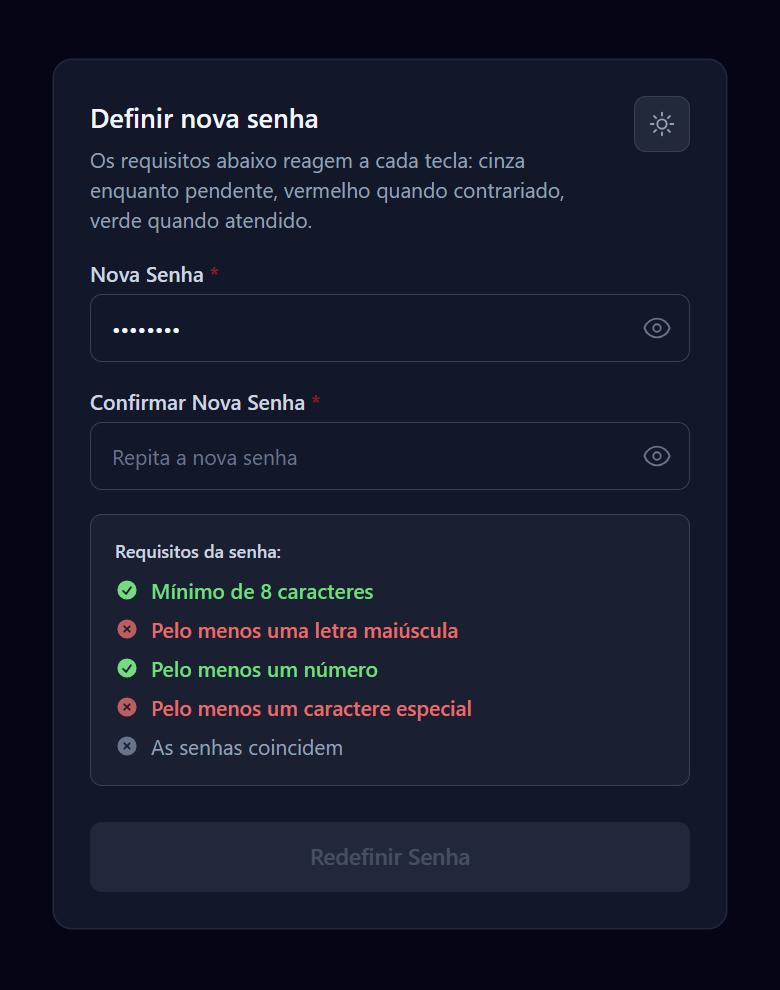
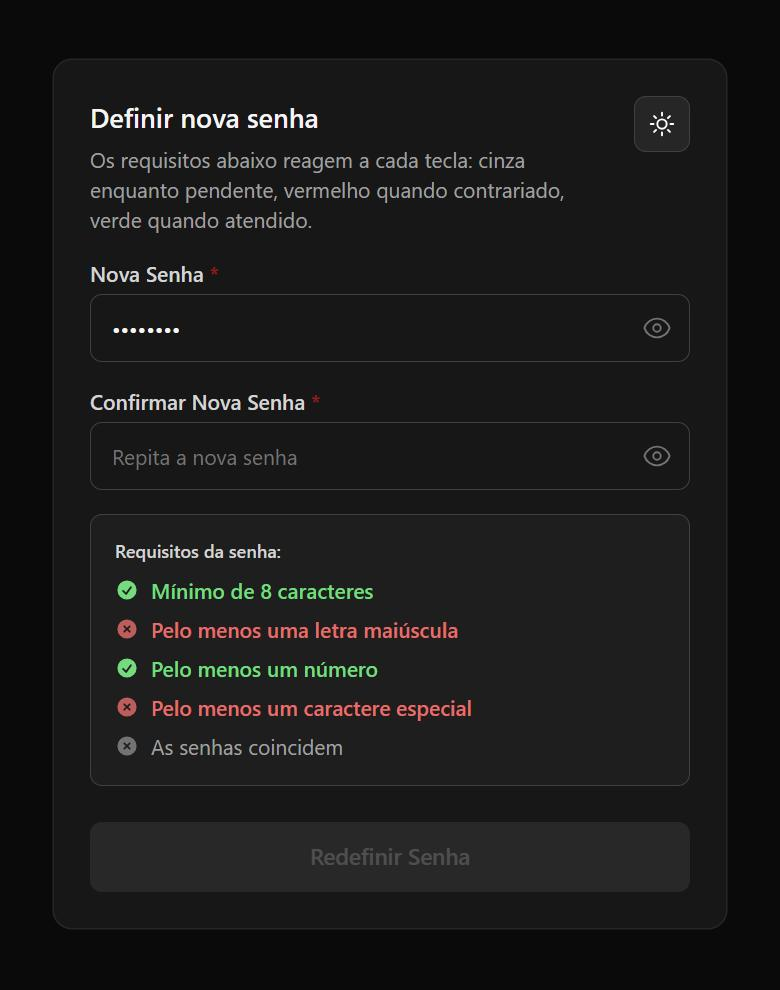
style: sol fixo no botao de tema e paleta escura neutra
- o botao de tema mostra sempre o sol: preto no tema claro, branco no escuro
  (o aria-label continua dizendo para onde o clique leva)
- troca slate por neutral: o slate do Tailwind puxa para o azul, e o escuro
  pedia cinza neutro
- prints do README refeitos nos dois temas

diff --git a/src/App.vue b/src/App.vue
@@ -1,12 +1,12 @@
 <template>
-    <main class="min-h-screen bg-slate-100 px-4 py-10 transition-colors duration-200 dark:bg-slate-950">
+    <main class="min-h-screen bg-neutral-100 px-4 py-10 transition-colors duration-200 dark:bg-neutral-950">
         <div
-            class="mx-auto flex w-full max-w-md flex-col gap-4 rounded-xl bg-white p-6 shadow-sm transition-colors duration-200 dark:bg-slate-900 dark:shadow-none dark:ring-1 dark:ring-slate-800"
+            class="mx-auto flex w-full max-w-md flex-col gap-4 rounded-xl bg-white p-6 shadow-sm transition-colors duration-200 dark:bg-neutral-900 dark:shadow-none dark:ring-1 dark:ring-neutral-800"
         >
             <header class="flex items-start justify-between gap-4">
                 <div class="flex flex-col gap-1">
-                    <h1 class="text-lg font-semibold text-gray-800 dark:text-slate-100">Definir nova senha</h1>
-                    <p class="text-sm text-gray-500 dark:text-slate-400">
+                    <h1 class="text-lg font-semibold text-gray-800 dark:text-neutral-100">Definir nova senha</h1>
+                    <p class="text-sm text-gray-500 dark:text-neutral-400">
                         Os requisitos abaixo reagem a cada tecla: cinza enquanto pendente, vermelho quando
                         contrariado, verde quando atendido.
                     </p>
@@ -15,39 +15,22 @@
                     type="button"
                     :aria-label="escuro ? 'Mudar para tema claro' : 'Mudar para tema escuro'"
                     :title="escuro ? 'Tema claro' : 'Tema escuro'"
-                    class="shrink-0 cursor-pointer rounded-lg border border-gray-200 bg-white p-2 text-gray-500 transition-colors duration-200 hover:text-gray-800 dark:border-slate-700 dark:bg-slate-800 dark:text-slate-400 dark:hover:text-slate-100"
+                    class="shrink-0 cursor-pointer rounded-lg border border-gray-200 bg-white p-2 text-black transition-colors duration-200 hover:bg-gray-100 dark:border-neutral-700 dark:bg-neutral-800 dark:text-white dark:hover:bg-neutral-700"
                     @click="alternar"
                 >
-                    <!-- sol -->
                     <svg
-                        v-if="escuro"
                         xmlns="http://www.w3.org/2000/svg"
                         fill="none"
                         viewBox="0 0 24 24"
                         stroke-width="1.5"
                         stroke="currentColor"
                         class="h-5 w-5"
+                        aria-hidden="true"
                     >
                         <path
                             stroke-linecap="round"
                             stroke-linejoin="round"
                             d="M12 3v2.25m6.364.386l-1.591 1.591M21 12h-2.25m-.386 6.364l-1.591-1.591M12 18.75V21m-4.773-4.227l-1.591 1.591M5.25 12H3m4.227-4.773L5.636 5.636M15.75 12a3.75 3.75 0 11-7.5 0 3.75 3.75 0 017.5 0z"
-                        />
-                    </svg>
-                    <!-- lua -->
-                    <svg
-                        v-else
-                        xmlns="http://www.w3.org/2000/svg"
-                        fill="none"
-                        viewBox="0 0 24 24"
-                        stroke-width="1.5"
-                        stroke="currentColor"
-                        class="h-5 w-5"
-                    >
-                        <path
-                            stroke-linecap="round"
-                            stroke-linejoin="round"
-                            d="M21.752 15.002A9.718 9.718 0 0118 15.75c-5.385 0-9.75-4.365-9.75-9.75 0-1.33.266-2.597.748-3.752A9.753 9.753 0 003 11.25C3 16.635 7.365 21 12.75 21a9.753 9.753 0 009.002-5.998z"
                         />
                     </svg>
                 </button>
@@ -66,7 +49,7 @@
 
             <button
                 type="button"
-                class="mt-2 w-full cursor-pointer rounded-lg border-none bg-slate-900 py-3 text-[15px] font-semibold text-white transition-all duration-300 hover:-translate-y-0.5 hover:shadow-[0_8px_20px_rgba(15,23,42,0.3)] disabled:cursor-not-allowed disabled:bg-gray-400 disabled:opacity-40 disabled:hover:translate-y-0 disabled:hover:shadow-none dark:bg-slate-100 dark:text-slate-900 dark:hover:shadow-[0_8px_20px_rgba(0,0,0,0.5)] dark:disabled:bg-slate-700 dark:disabled:text-slate-400"
+                class="mt-2 w-full cursor-pointer rounded-lg border-none bg-neutral-900 py-3 text-[15px] font-semibold text-white transition-all duration-300 hover:-translate-y-0.5 hover:shadow-[0_8px_20px_rgba(23,23,23,0.3)] disabled:cursor-not-allowed disabled:bg-gray-400 disabled:opacity-40 disabled:hover:translate-y-0 disabled:hover:shadow-none dark:bg-neutral-100 dark:text-neutral-900 dark:hover:shadow-[0_8px_20px_rgba(0,0,0,0.5)] dark:disabled:bg-neutral-700 dark:disabled:text-neutral-400"
                 :disabled="!podeEnviar"
             >
                 Redefinir Senha

diff --git a/src/components/CampoSenha.vue b/src/components/CampoSenha.vue
@@ -1,6 +1,6 @@
 <template>
     <div class="flex flex-col gap-1">
-        <label :for="id" class="text-sm font-semibold text-gray-700 dark:text-slate-300">
+        <label :for="id" class="text-sm font-semibold text-gray-700 dark:text-neutral-300">
             {{ rotulo }}
             <span v-if="obrigatorio" class="text-red-700/80">*</span>
         </label>
@@ -12,14 +12,14 @@
                 :placeholder="placeholder"
                 :required="obrigatorio"
                 autocomplete="new-password"
-                class="w-full rounded-lg border border-gray-200 bg-white px-3.5 py-3 pr-10 font-[inherit] text-sm text-gray-900 transition-all duration-200 placeholder:text-gray-400 focus:border-slate-500 focus:outline-none focus:ring-[3px] focus:ring-slate-500/10 dark:border-slate-700 dark:bg-slate-900 dark:text-slate-100 dark:placeholder:text-slate-500 dark:focus:border-slate-400"
+                class="w-full rounded-lg border border-gray-200 bg-white px-3.5 py-3 pr-10 font-[inherit] text-sm text-gray-900 transition-all duration-200 placeholder:text-gray-400 focus:border-neutral-500 focus:outline-none focus:ring-[3px] focus:ring-neutral-500/10 dark:border-neutral-700 dark:bg-neutral-900 dark:text-neutral-100 dark:placeholder:text-neutral-500 dark:focus:border-neutral-400"
                 @input="$emit('update:modelValue', $event.target.value)"
             />
             <button
                 type="button"
                 tabindex="-1"
                 :aria-label="visivel ? 'Ocultar senha' : 'Mostrar senha'"
-                class="absolute right-3 top-1/2 z-10 flex -translate-y-1/2 cursor-pointer items-center justify-center border-none bg-transparent p-0 text-gray-400 transition-colors duration-200 hover:text-gray-600 dark:text-slate-500 dark:hover:text-slate-300"
+                class="absolute right-3 top-1/2 z-10 flex -translate-y-1/2 cursor-pointer items-center justify-center border-none bg-transparent p-0 text-gray-400 transition-colors duration-200 hover:text-gray-600 dark:text-neutral-500 dark:hover:text-neutral-300"
                 @click="visivel = !visivel"
             >
                 <svg

diff --git a/src/components/ValidadorSenhaVisual.vue b/src/components/ValidadorSenhaVisual.vue
@@ -1,6 +1,6 @@
 <template>
-    <div class="rounded-lg border border-gray-200 bg-gray-50 p-4 dark:border-slate-700 dark:bg-slate-800/50">
-        <p class="mb-2 text-xs font-semibold text-gray-700 dark:text-slate-300">Requisitos da senha:</p>
+    <div class="rounded-lg border border-gray-200 bg-gray-50 p-4 dark:border-neutral-700 dark:bg-neutral-800/50">
+        <p class="mb-2 text-xs font-semibold text-gray-700 dark:text-neutral-300">Requisitos da senha:</p>
         <ul class="space-y-1.5">
             <li
                 v-for="(requisito, index) in requisitos"
@@ -26,7 +26,7 @@
                 <svg
                     v-else
                     class="mr-2 h-4 w-4 shrink-0"
-                    :class="requisito.divergente ? 'text-red-700/70 dark:text-red-400/80' : 'text-gray-400 dark:text-slate-500'"
+                    :class="requisito.divergente ? 'text-red-700/70 dark:text-red-400/80' : 'text-gray-400 dark:text-neutral-500'"
                     viewBox="0 0 20 20"
                     fill="currentColor"
                     aria-hidden="true"
@@ -120,6 +120,6 @@ function estadoDe(requisito) {
 function classeTexto(requisito) {
     if (requisito.cumprido) return 'text-green-700 font-medium dark:text-green-400';
     if (requisito.divergente) return 'text-red-700/80 font-medium dark:text-red-400';
-    return 'text-gray-600 dark:text-slate-400';
+    return 'text-gray-600 dark:text-neutral-400';
 }
 </script>

diff --git a/src/components/ValidadorSenhaVisual.spec.js b/src/components/ValidadorSenhaVisual.spec.js
@@ -51,10 +51,10 @@ describe('ValidadorSenhaVisual.vue', () => {
         // Guarda contra um refactor de classes deixar o tema escuro para trás.
         const wrapper = mount(ValidadorSenhaVisual, { props: { senha: 'senha123', confirmacao: '' } });
         const html = wrapper.html();
-        expect(html).toContain('dark:bg-slate-800/50');
+        expect(html).toContain('dark:bg-neutral-800/50');
         expect(html).toContain('dark:text-green-400');
         expect(html).toContain('dark:text-red-400');
-        expect(html).toContain('dark:text-slate-400');
+        expect(html).toContain('dark:text-neutral-400');
     });
 
     it('reage à mudança da prop', async () => {
